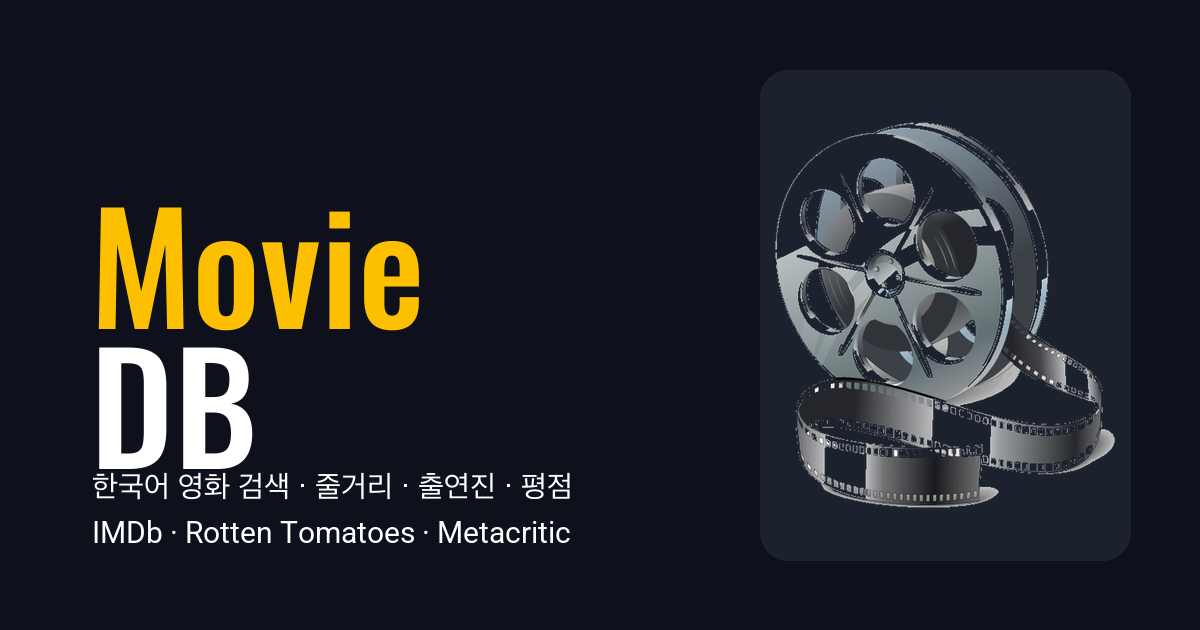
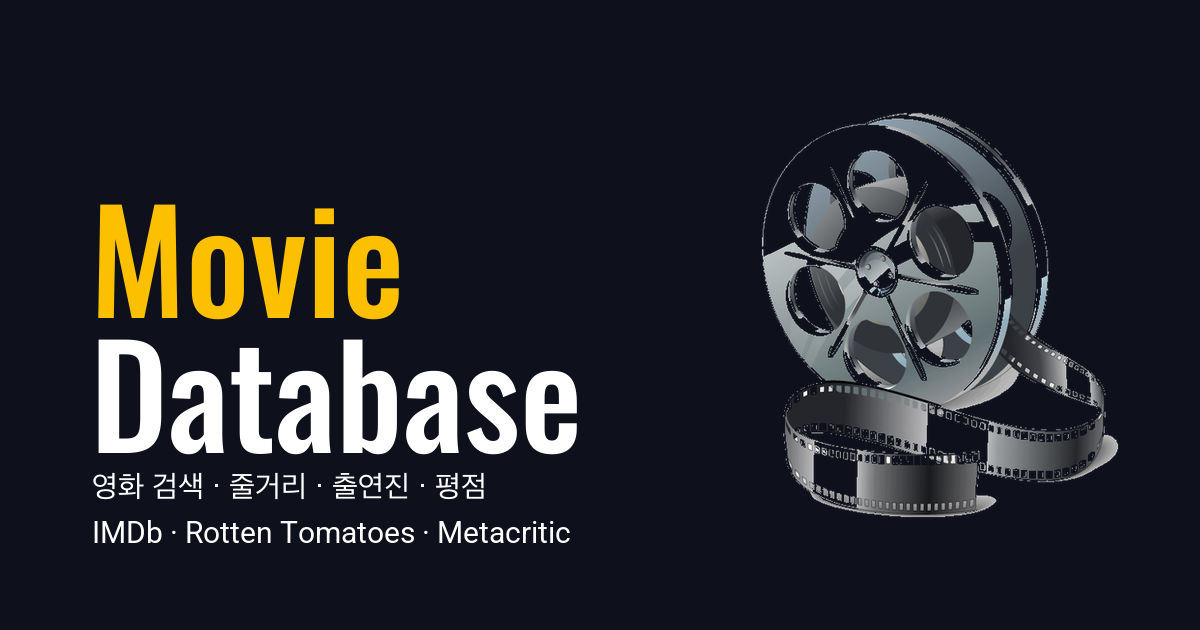
chore: 서비스명 Movie Database 통일 및 OG 메타·이미지 문구 정리

Changed region(s): [[0.0617, 0.3016, 0.4933, 0.8143], [0.6167, 0.181, 0.9558, 0.8444]]

diff --git a/index.html b/index.html
@@ -3,24 +3,24 @@
 <head>
     <meta charset="UTF-8">
     <meta name="viewport" content="width=device-width, initial-scale=1.0">
-    <title>Movie DB</title>
-    <meta name="description" content="한국어로 영화를 검색하고 줄거리, 출연진, IMDb · Rotten Tomatoes · Metacritic 평점을 한눈에 확인하세요.">
+    <title>Movie Database</title>
+    <meta name="description" content="영화를 검색하고 줄거리, 출연진, IMDb · Rotten Tomatoes · Metacritic 평점을 한눈에 확인하세요.">
     <meta name="theme-color" content="#0E111B">
     <link rel="canonical" href="https://movie-app-drab-six.vercel.app/">
     <!-- Open Graph -->
     <meta property="og:type" content="website">
-    <meta property="og:site_name" content="Movie DB">
-    <meta property="og:title" content="Movie DB — 한국어 영화 검색">
+    <meta property="og:site_name" content="Movie Database">
+    <meta property="og:title" content="Movie Database">
     <meta property="og:description" content="줄거리, 출연진, IMDb · Rotten Tomatoes · Metacritic 평점을 한눈에.">
     <meta property="og:url" content="https://movie-app-drab-six.vercel.app/">
     <meta property="og:image" content="https://movie-app-drab-six.vercel.app/og.png">
     <meta property="og:image:width" content="1200">
     <meta property="og:image:height" content="630">
-    <meta property="og:image:alt" content="Movie DB — 필름 릴 아이콘과 서비스 소개">
+    <meta property="og:image:alt" content="Movie Database — 필름 릴 아이콘과 서비스 소개">
     <meta property="og:locale" content="ko_KR">
     <!-- Twitter -->
     <meta name="twitter:card" content="summary_large_image">
-    <meta name="twitter:title" content="Movie DB — 한국어 영화 검색">
+    <meta name="twitter:title" content="Movie Database">
     <meta name="twitter:description" content="줄거리, 출연진, IMDb · Rotten Tomatoes · Metacritic 평점을 한눈에.">
     <meta name="twitter:image" content="https://movie-app-drab-six.vercel.app/og.png">
     <!-- JSON-LD -->
@@ -28,9 +28,9 @@
     {
       "@context": "https://schema.org",
       "@type": "WebApplication",
-      "name": "Movie DB",
+      "name": "Movie Database",
       "url": "https://movie-app-drab-six.vercel.app/",
-      "description": "한국어로 영화를 검색하고 줄거리, 출연진, IMDb · Rotten Tomatoes · Metacritic 평점을 한눈에 확인하는 웹 앱",
+      "description": "영화를 검색하고 줄거리, 출연진, IMDb · Rotten Tomatoes · Metacritic 평점을 한눈에 확인하는 웹 앱",
       "applicationCategory": "EntertainmentApplication",
       "operatingSystem": "Web",
       "inLanguage": "ko",

diff --git a/src/components/Headline.js b/src/components/Headline.js
@@ -10,7 +10,7 @@ export default class Headline extends Component {
                 CHECK THE SCORE.
             </h1>
             <p>
-                한국어로 영화를 검색하고 줄거리, 출연진, 평점을 한눈에 확인하세요.<br>
+                영화를 검색하고 줄거리, 출연진, 평점을 한눈에 확인하세요.<br>
                 IMDb · Rotten Tomatoes · Metacritic 평점을 함께 보여드립니다.
             </p>
         `

diff --git a/README.md b/README.md
@@ -1,6 +1,6 @@
 <img src="https://i.imgur.com/ZBnFGAG.png" width=100%>
 
-# 🎞 [Movie DB](https://vercel.live/link/movie-app-drab-six.vercel.app?via=deployment-domains-list&p=1&page=/)
+# 🎞 [Movie Database](https://vercel.live/link/movie-app-drab-six.vercel.app?via=deployment-domains-list&p=1&page=/)
 외부 API를 활용하여 영화를 검색하고 결과를 화면에 표시합니다.
 
 ## ✨ 기능
